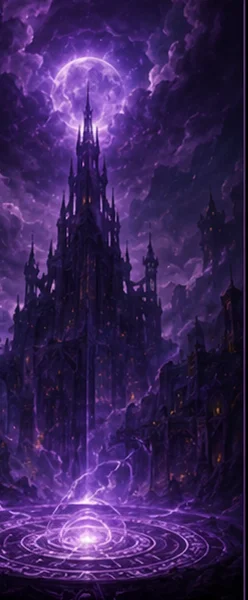
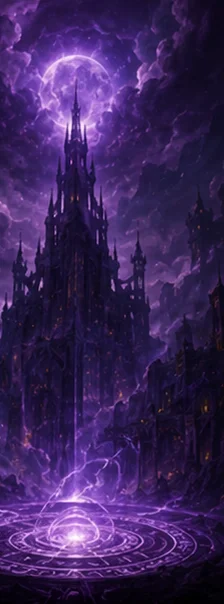
balance+ui: 조조 너프+상위 상향평준화, 도감 탭 빨강, 필터 고정, 배경 재크롭
균형(조조 조사기 해소):
- 조조 870→810(7/7/6/5), 여포 750→810, 관우 750→780, 장비 690→760,
  사마의 670→750, 조운 650→750. 유비 810 유지. 상위 7명을 750~810 좁은 띠로.
- meta.js(멀티 엔진)의 MANUAL_GENERAL_DEFS도 동일하게 동기화(안 그러면 싱글↔멀티
  버프 불일치). mp_game.html 재빌드(전투 상수 동기화 확인 통과).

UI:
- 도감 탭: 빨간 배경 + 금색 글씨 + 금색 테두리로 특별하게(천/지/인과 구분).
- 도감 완성도+필터(전체/보유/미보유)를 sticky로 상단 고정 → 카드만 스크롤
  (드래그 시 페이지 전체가 밀리던 문제 해결).
- 등급 배경 15장 재크롭: 옆 패널 물림(오른쪽 잘림, 흑백에서 특히 티남) +
  하단 캡션 제거하고 장면만 깔끔하게.

검증(헤드리스): 조정 후 조조=유비=여포 810 동률, 상위 750~810, 필터 스크롤 고정,
크롭 물림/캡션 제거, JS 에러 0. 스크린샷 확인.

diff --git a/prototype.html b/prototype.html
@@ -5343,8 +5343,20 @@
   }
   .formation-tab.active b { color: #4a1206; text-shadow: 0 1px 0 rgba(255,245,186,0.8); }
   .formation-tab.active small { color: #5b2104; opacity: 1; }
-  /* 도감 탭 — 색은 천/지/인과 동일(골드). 좁은 폭 + 왼쪽 구분 여백으로만 위치를 분리. */
-  .formation-tab.dexf-tab { padding: 6px 14px !important; margin-left: 4px !important; }
+  /* 도감 탭 — 특별하게: 빨간 배경 + 금색 글씨 + 금색 테두리(천/지/인과 확실히 구분). */
+  .formation-tab.dexf-tab {
+    padding: 6px 14px !important; margin-left: 4px !important;
+    background: linear-gradient(180deg, #c1121f, #7a0a12) !important;
+    border: 2px solid #f0b531 !important; color: #ffd75e !important;
+  }
+  .formation-tab.dexf-tab b { color: #ffe08a !important; }
+  .formation-tab.dexf-tab small { color: #ffd75e !important; opacity: 1 !important; }
+  .formation-tab.dexf-tab.active {
+    background: linear-gradient(180deg, #e8202e, #8b0b12) !important;
+    border-color: #ffd766 !important;
+    box-shadow: 0 0 0 1px #ffd766, 0 3px 0 #4a0206, 0 0 12px rgba(255,80,60,.45) !important;
+  }
+  .formation-tab.dexf-tab.active b { color: #fff2c2 !important; text-shadow: 0 1px 2px rgba(0,0,0,.6) !important; }
   /* 네 탭 높이를 강제 통일 — 미디어쿼리 !important 패딩 차이로 높이가 달라져
      박스 위/아래 여백이 어긋나던 문제 해결. box-sizing으로 정확히 46px 고정. */
   /* 탭 세로 정렬: 그리드 대신 flex로. align-items:center면 탭 높이가 달라도(도감 탭 등)
@@ -12322,6 +12334,8 @@
   /* 행 높이를 고정(grid-auto-rows) — 카드 내부가 전부 absolute라 aspect-ratio에만 기대면
      일부 환경에서 높이가 무너져 겹친다. 행 높이를 못박아 안정화. */
   .dex-view { grid-column:1 / -1; }
+  /* 완성도+필터를 상단 고정 — 카드만 스크롤(페이지 전체가 밀리지 않게). */
+  .dex-view .dex-head { position:sticky; top:0; z-index:6; background:#0d0604; padding:6px 2px 8px; margin:-2px -2px 0; }
   .dex-view .dex-grid { display:grid; grid-template-columns:repeat(4,1fr); grid-auto-rows:128px; gap:7px; padding:2px 2px 18px; align-content:start; }
   .dex-view .dex-card { position:relative; border-radius:12px; overflow:hidden; cursor:pointer;
     background:radial-gradient(circle at 50% 34%, rgba(78,58,34,.6), rgba(18,12,7,.92)); border:1px solid rgba(255,255,255,.10); }
@@ -12988,12 +13002,12 @@ const UPG_DEFS = {
 };
 const MANUAL_GENERAL_DEFS = [
   { id: 'liu_bei', name: '유비', buffs: { unitAtk: 0.10, unitDef: 0.05, castleDef: 0.05, castleAtk: 0.05 } },
-  { id: 'guan_yu', name: '관우', buffs: { unitAtk: 0.10, unitDef: 0.04, castleAtk: 0.08 } },
-  { id: 'zhang_fei', name: '장비', buffs: { unitAtk: 0.10, unitDef: 0.03, castleAtk: 0.06 } },
-  { id: 'zhao_yun', name: '조운', buffs: { unitAtk: 0.07, unitDef: 0.10 } },
-  { id: 'lu_bu', name: '여포', buffs: { unitAtk: 0.10, castleAtk: 0.10, unitDef: 0.02 } },
+  { id: 'guan_yu', name: '관우', buffs: { unitAtk: 0.10, unitDef: 0.05, castleAtk: 0.085 } },
+  { id: 'zhang_fei', name: '장비', buffs: { unitAtk: 0.10, unitDef: 0.05, castleAtk: 0.075 } },
+  { id: 'zhao_yun', name: '조운', buffs: { unitAtk: 0.10, unitDef: 0.10, castleAtk: 0.02 } },
+  { id: 'lu_bu', name: '여포', buffs: { unitAtk: 0.10, castleAtk: 0.10, unitDef: 0.05 } },
   { id: 'xiahou_dun', name: '하후돈', buffs: { castleAtk: 0.06, unitDef: 0.04 } },
-  { id: 'cao_cao', name: '조조', buffs: { unitAtk: 0.08, unitDef: 0.08, castleAtk: 0.06, castleDef: 0.06 } },
+  { id: 'cao_cao', name: '조조', buffs: { unitAtk: 0.07, unitDef: 0.07, castleAtk: 0.06, castleDef: 0.05 } },
   { id: 'cao_xing', name: '조흥', buffs: { unitAtk: 0.02, castleAtk: 0.02 } },
   { id: 'taishi_ci', name: '태사자', buffs: { unitAtk: 0.07, unitDef: 0.03 } },
   { id: 'zhuge_liang', name: '제갈량', buffs: { prodRate: 0.08, castleDef: 0.05, unitDef: 0.03 } },
@@ -13001,7 +13015,7 @@ const MANUAL_GENERAL_DEFS = [
   { id: 'huang_gai', name: '황개', buffs: { castleDef: 0.07, unitDef: 0.04 } },
   { id: 'yan_liang', name: '안량', buffs: { unitAtk: 0.07, castleAtk: 0.04 } },
   { id: 'dong_zhuo', name: '동탁', buffs: { castleDef: 0.06, unitDef: 0.03 } },
-  { id: 'sima_yi', name: '사마의', buffs: { castleDef: 0.08, unitDef: 0.06, castleAtk: 0.04 } },
+  { id: 'sima_yi', name: '사마의', buffs: { castleDef: 0.09, unitDef: 0.08, castleAtk: 0.05 } },
   { id: 'gan_ning', name: '감녕', buffs: { unitAtk: 0.06, castleAtk: 0.04 } },
   { id: 'yuan_shao', name: '원소', buffs: { castleDef: 0.05, unitAtk: 0.03 } },
   { id: 'sun_quan', name: '손권', buffs: { castleDef: 0.06, unitDef: 0.04 } },
@@ -14491,12 +14505,14 @@ function renderManageDex(rosterEl) {
   const fil = [['all', '전체'], ['owned', '보유'], ['locked', '미보유']];
   rosterEl.innerHTML =
     '<div class="dex-view">' +
-      '<div class="dex-progress"><div class="dex-progress-top">' +
-        '<span class="dex-progress-label">수집 완성도</span>' +
-        '<span class="dex-progress-count">' + have + ' / ' + total + '</span>' +
-      '</div><div class="dex-bar"><i style="width:' + pct + '%"></i></div></div>' +
-      '<div class="dex-tabs">' +
-        fil.map(function (f) { return '<button type="button" class="dex-tab' + (_dexFilter === f[0] ? ' active' : '') + '" data-df="' + f[0] + '">' + f[1] + '</button>'; }).join('') +
+      '<div class="dex-head">' +
+        '<div class="dex-progress"><div class="dex-progress-top">' +
+          '<span class="dex-progress-label">수집 완성도</span>' +
+          '<span class="dex-progress-count">' + have + ' / ' + total + '</span>' +
+        '</div><div class="dex-bar"><i style="width:' + pct + '%"></i></div></div>' +
+        '<div class="dex-tabs">' +
+          fil.map(function (f) { return '<button type="button" class="dex-tab' + (_dexFilter === f[0] ? ' active' : '') + '" data-df="' + f[0] + '">' + f[1] + '</button>'; }).join('') +
+        '</div>' +
       '</div>' +
       '<div class="dex-grid"></div>' +
     '</div>';

diff --git a/server/public/index.html b/server/public/index.html
@@ -5343,8 +5343,20 @@
   }
   .formation-tab.active b { color: #4a1206; text-shadow: 0 1px 0 rgba(255,245,186,0.8); }
   .formation-tab.active small { color: #5b2104; opacity: 1; }
-  /* 도감 탭 — 색은 천/지/인과 동일(골드). 좁은 폭 + 왼쪽 구분 여백으로만 위치를 분리. */
-  .formation-tab.dexf-tab { padding: 6px 14px !important; margin-left: 4px !important; }
+  /* 도감 탭 — 특별하게: 빨간 배경 + 금색 글씨 + 금색 테두리(천/지/인과 확실히 구분). */
+  .formation-tab.dexf-tab {
+    padding: 6px 14px !important; margin-left: 4px !important;
+    background: linear-gradient(180deg, #c1121f, #7a0a12) !important;
+    border: 2px solid #f0b531 !important; color: #ffd75e !important;
+  }
+  .formation-tab.dexf-tab b { color: #ffe08a !important; }
+  .formation-tab.dexf-tab small { color: #ffd75e !important; opacity: 1 !important; }
+  .formation-tab.dexf-tab.active {
+    background: linear-gradient(180deg, #e8202e, #8b0b12) !important;
+    border-color: #ffd766 !important;
+    box-shadow: 0 0 0 1px #ffd766, 0 3px 0 #4a0206, 0 0 12px rgba(255,80,60,.45) !important;
+  }
+  .formation-tab.dexf-tab.active b { color: #fff2c2 !important; text-shadow: 0 1px 2px rgba(0,0,0,.6) !important; }
   /* 네 탭 높이를 강제 통일 — 미디어쿼리 !important 패딩 차이로 높이가 달라져
      박스 위/아래 여백이 어긋나던 문제 해결. box-sizing으로 정확히 46px 고정. */
   /* 탭 세로 정렬: 그리드 대신 flex로. align-items:center면 탭 높이가 달라도(도감 탭 등)
@@ -12322,6 +12334,8 @@
   /* 행 높이를 고정(grid-auto-rows) — 카드 내부가 전부 absolute라 aspect-ratio에만 기대면
      일부 환경에서 높이가 무너져 겹친다. 행 높이를 못박아 안정화. */
   .dex-view { grid-column:1 / -1; }
+  /* 완성도+필터를 상단 고정 — 카드만 스크롤(페이지 전체가 밀리지 않게). */
+  .dex-view .dex-head { position:sticky; top:0; z-index:6; background:#0d0604; padding:6px 2px 8px; margin:-2px -2px 0; }
   .dex-view .dex-grid { display:grid; grid-template-columns:repeat(4,1fr); grid-auto-rows:128px; gap:7px; padding:2px 2px 18px; align-content:start; }
   .dex-view .dex-card { position:relative; border-radius:12px; overflow:hidden; cursor:pointer;
     background:radial-gradient(circle at 50% 34%, rgba(78,58,34,.6), rgba(18,12,7,.92)); border:1px solid rgba(255,255,255,.10); }
@@ -12988,12 +13002,12 @@ const UPG_DEFS = {
 };
 const MANUAL_GENERAL_DEFS = [
   { id: 'liu_bei', name: '유비', buffs: { unitAtk: 0.10, unitDef: 0.05, castleDef: 0.05, castleAtk: 0.05 } },
-  { id: 'guan_yu', name: '관우', buffs: { unitAtk: 0.10, unitDef: 0.04, castleAtk: 0.08 } },
-  { id: 'zhang_fei', name: '장비', buffs: { unitAtk: 0.10, unitDef: 0.03, castleAtk: 0.06 } },
-  { id: 'zhao_yun', name: '조운', buffs: { unitAtk: 0.07, unitDef: 0.10 } },
-  { id: 'lu_bu', name: '여포', buffs: { unitAtk: 0.10, castleAtk: 0.10, unitDef: 0.02 } },
+  { id: 'guan_yu', name: '관우', buffs: { unitAtk: 0.10, unitDef: 0.05, castleAtk: 0.085 } },
+  { id: 'zhang_fei', name: '장비', buffs: { unitAtk: 0.10, unitDef: 0.05, castleAtk: 0.075 } },
+  { id: 'zhao_yun', name: '조운', buffs: { unitAtk: 0.10, unitDef: 0.10, castleAtk: 0.02 } },
+  { id: 'lu_bu', name: '여포', buffs: { unitAtk: 0.10, castleAtk: 0.10, unitDef: 0.05 } },
   { id: 'xiahou_dun', name: '하후돈', buffs: { castleAtk: 0.06, unitDef: 0.04 } },
-  { id: 'cao_cao', name: '조조', buffs: { unitAtk: 0.08, unitDef: 0.08, castleAtk: 0.06, castleDef: 0.06 } },
+  { id: 'cao_cao', name: '조조', buffs: { unitAtk: 0.07, unitDef: 0.07, castleAtk: 0.06, castleDef: 0.05 } },
   { id: 'cao_xing', name: '조흥', buffs: { unitAtk: 0.02, castleAtk: 0.02 } },
   { id: 'taishi_ci', name: '태사자', buffs: { unitAtk: 0.07, unitDef: 0.03 } },
   { id: 'zhuge_liang', name: '제갈량', buffs: { prodRate: 0.08, castleDef: 0.05, unitDef: 0.03 } },
@@ -13001,7 +13015,7 @@ const MANUAL_GENERAL_DEFS = [
   { id: 'huang_gai', name: '황개', buffs: { castleDef: 0.07, unitDef: 0.04 } },
   { id: 'yan_liang', name: '안량', buffs: { unitAtk: 0.07, castleAtk: 0.04 } },
   { id: 'dong_zhuo', name: '동탁', buffs: { castleDef: 0.06, unitDef: 0.03 } },
-  { id: 'sima_yi', name: '사마의', buffs: { castleDef: 0.08, unitDef: 0.06, castleAtk: 0.04 } },
+  { id: 'sima_yi', name: '사마의', buffs: { castleDef: 0.09, unitDef: 0.08, castleAtk: 0.05 } },
   { id: 'gan_ning', name: '감녕', buffs: { unitAtk: 0.06, castleAtk: 0.04 } },
   { id: 'yuan_shao', name: '원소', buffs: { castleDef: 0.05, unitAtk: 0.03 } },
   { id: 'sun_quan', name: '손권', buffs: { castleDef: 0.06, unitDef: 0.04 } },
@@ -14491,12 +14505,14 @@ function renderManageDex(rosterEl) {
   const fil = [['all', '전체'], ['owned', '보유'], ['locked', '미보유']];
   rosterEl.innerHTML =
     '<div class="dex-view">' +
-      '<div class="dex-progress"><div class="dex-progress-top">' +
-        '<span class="dex-progress-label">수집 완성도</span>' +
-        '<span class="dex-progress-count">' + have + ' / ' + total + '</span>' +
-      '</div><div class="dex-bar"><i style="width:' + pct + '%"></i></div></div>' +
-      '<div class="dex-tabs">' +
-        fil.map(function (f) { return '<button type="button" class="dex-tab' + (_dexFilter === f[0] ? ' active' : '') + '" data-df="' + f[0] + '">' + f[1] + '</button>'; }).join('') +
+      '<div class="dex-head">' +
+        '<div class="dex-progress"><div class="dex-progress-top">' +
+          '<span class="dex-progress-label">수집 완성도</span>' +
+          '<span class="dex-progress-count">' + have + ' / ' + total + '</span>' +
+        '</div><div class="dex-bar"><i style="width:' + pct + '%"></i></div></div>' +
+        '<div class="dex-tabs">' +
+          fil.map(function (f) { return '<button type="button" class="dex-tab' + (_dexFilter === f[0] ? ' active' : '') + '" data-df="' + f[0] + '">' + f[1] + '</button>'; }).join('') +
+        '</div>' +
       '</div>' +
       '<div class="dex-grid"></div>' +
     '</div>';

diff --git a/server/public/mp_game.html b/server/public/mp_game.html
@@ -1493,12 +1493,12 @@ const FORMATION_KEYS = ['天', '地', '人'];
 // 명장 수동 버프(나머지는 절차생성) — prototype MANUAL_GENERAL_DEFS 그대로
 const MANUAL_GENERAL_DEFS = [
   { id: 'liu_bei', name: '유비', buffs: { unitAtk: 0.10, unitDef: 0.05, castleDef: 0.05, castleAtk: 0.05 } },
-  { id: 'guan_yu', name: '관우', buffs: { unitAtk: 0.10, unitDef: 0.04, castleAtk: 0.08 } },
-  { id: 'zhang_fei', name: '장비', buffs: { unitAtk: 0.10, unitDef: 0.03, castleAtk: 0.06 } },
-  { id: 'zhao_yun', name: '조운', buffs: { unitAtk: 0.07, unitDef: 0.10 } },
-  { id: 'lu_bu', name: '여포', buffs: { unitAtk: 0.10, castleAtk: 0.10, unitDef: 0.02 } },
+  { id: 'guan_yu', name: '관우', buffs: { unitAtk: 0.10, unitDef: 0.05, castleAtk: 0.085 } },
+  { id: 'zhang_fei', name: '장비', buffs: { unitAtk: 0.10, unitDef: 0.05, castleAtk: 0.075 } },
+  { id: 'zhao_yun', name: '조운', buffs: { unitAtk: 0.10, unitDef: 0.10, castleAtk: 0.02 } },
+  { id: 'lu_bu', name: '여포', buffs: { unitAtk: 0.10, castleAtk: 0.10, unitDef: 0.05 } },
   { id: 'xiahou_dun', name: '하후돈', buffs: { castleAtk: 0.06, unitDef: 0.04 } },
-  { id: 'cao_cao', name: '조조', buffs: { unitAtk: 0.08, unitDef: 0.08, castleAtk: 0.06, castleDef: 0.06 } },
+  { id: 'cao_cao', name: '조조', buffs: { unitAtk: 0.07, unitDef: 0.07, castleAtk: 0.06, castleDef: 0.05 } },
   { id: 'cao_xing', name: '조흥', buffs: { unitAtk: 0.02, castleAtk: 0.02 } },
   { id: 'taishi_ci', name: '태사자', buffs: { unitAtk: 0.07, unitDef: 0.03 } },
   { id: 'zhuge_liang', name: '제갈량', buffs: { prodRate: 0.08, castleDef: 0.05, unitDef: 0.03 } },
@@ -1506,7 +1506,7 @@ const MANUAL_GENERAL_DEFS = [
   { id: 'huang_gai', name: '황개', buffs: { castleDef: 0.07, unitDef: 0.04 } },
   { id: 'yan_liang', name: '안량', buffs: { unitAtk: 0.07, castleAtk: 0.04 } },
   { id: 'dong_zhuo', name: '동탁', buffs: { castleDef: 0.06, unitDef: 0.03 } },
-  { id: 'sima_yi', name: '사마의', buffs: { castleDef: 0.08, unitDef: 0.06, castleAtk: 0.04 } },
+  { id: 'sima_yi', name: '사마의', buffs: { castleDef: 0.09, unitDef: 0.08, castleAtk: 0.05 } },
   { id: 'gan_ning', name: '감녕', buffs: { unitAtk: 0.06, castleAtk: 0.04 } },
   { id: 'yuan_shao', name: '원소', buffs: { castleDef: 0.05, unitAtk: 0.03 } },
   { id: 'sun_quan', name: '손권', buffs: { castleDef: 0.06, unitDef: 0.04 } },

diff --git a/meta.js b/meta.js
@@ -19,12 +19,12 @@ const FORMATION_KEYS = ['天', '地', '人'];
 // 명장 수동 버프(나머지는 절차생성) — prototype MANUAL_GENERAL_DEFS 그대로
 const MANUAL_GENERAL_DEFS = [
   { id: 'liu_bei', name: '유비', buffs: { unitAtk: 0.10, unitDef: 0.05, castleDef: 0.05, castleAtk: 0.05 } },
-  { id: 'guan_yu', name: '관우', buffs: { unitAtk: 0.10, unitDef: 0.04, castleAtk: 0.08 } },
-  { id: 'zhang_fei', name: '장비', buffs: { unitAtk: 0.10, unitDef: 0.03, castleAtk: 0.06 } },
-  { id: 'zhao_yun', name: '조운', buffs: { unitAtk: 0.07, unitDef: 0.10 } },
-  { id: 'lu_bu', name: '여포', buffs: { unitAtk: 0.10, castleAtk: 0.10, unitDef: 0.02 } },
+  { id: 'guan_yu', name: '관우', buffs: { unitAtk: 0.10, unitDef: 0.05, castleAtk: 0.085 } },
+  { id: 'zhang_fei', name: '장비', buffs: { unitAtk: 0.10, unitDef: 0.05, castleAtk: 0.075 } },
+  { id: 'zhao_yun', name: '조운', buffs: { unitAtk: 0.10, unitDef: 0.10, castleAtk: 0.02 } },
+  { id: 'lu_bu', name: '여포', buffs: { unitAtk: 0.10, castleAtk: 0.10, unitDef: 0.05 } },
   { id: 'xiahou_dun', name: '하후돈', buffs: { castleAtk: 0.06, unitDef: 0.04 } },
-  { id: 'cao_cao', name: '조조', buffs: { unitAtk: 0.08, unitDef: 0.08, castleAtk: 0.06, castleDef: 0.06 } },
+  { id: 'cao_cao', name: '조조', buffs: { unitAtk: 0.07, unitDef: 0.07, castleAtk: 0.06, castleDef: 0.05 } },
   { id: 'cao_xing', name: '조흥', buffs: { unitAtk: 0.02, castleAtk: 0.02 } },
   { id: 'taishi_ci', name: '태사자', buffs: { unitAtk: 0.07, unitDef: 0.03 } },
   { id: 'zhuge_liang', name: '제갈량', buffs: { prodRate: 0.08, castleDef: 0.05, unitDef: 0.03 } },
@@ -32,7 +32,7 @@ const MANUAL_GENERAL_DEFS = [
   { id: 'huang_gai', name: '황개', buffs: { castleDef: 0.07, unitDef: 0.04 } },
   { id: 'yan_liang', name: '안량', buffs: { unitAtk: 0.07, castleAtk: 0.04 } },
   { id: 'dong_zhuo', name: '동탁', buffs: { castleDef: 0.06, unitDef: 0.03 } },
-  { id: 'sima_yi', name: '사마의', buffs: { castleDef: 0.08, unitDef: 0.06, castleAtk: 0.04 } },
+  { id: 'sima_yi', name: '사마의', buffs: { castleDef: 0.09, unitDef: 0.08, castleAtk: 0.05 } },
   { id: 'gan_ning', name: '감녕', buffs: { unitAtk: 0.06, castleAtk: 0.04 } },
   { id: 'yuan_shao', name: '원소', buffs: { castleDef: 0.05, unitAtk: 0.03 } },
   { id: 'sun_quan', name: '손권', buffs: { castleDef: 0.06, unitDef: 0.04 } },
